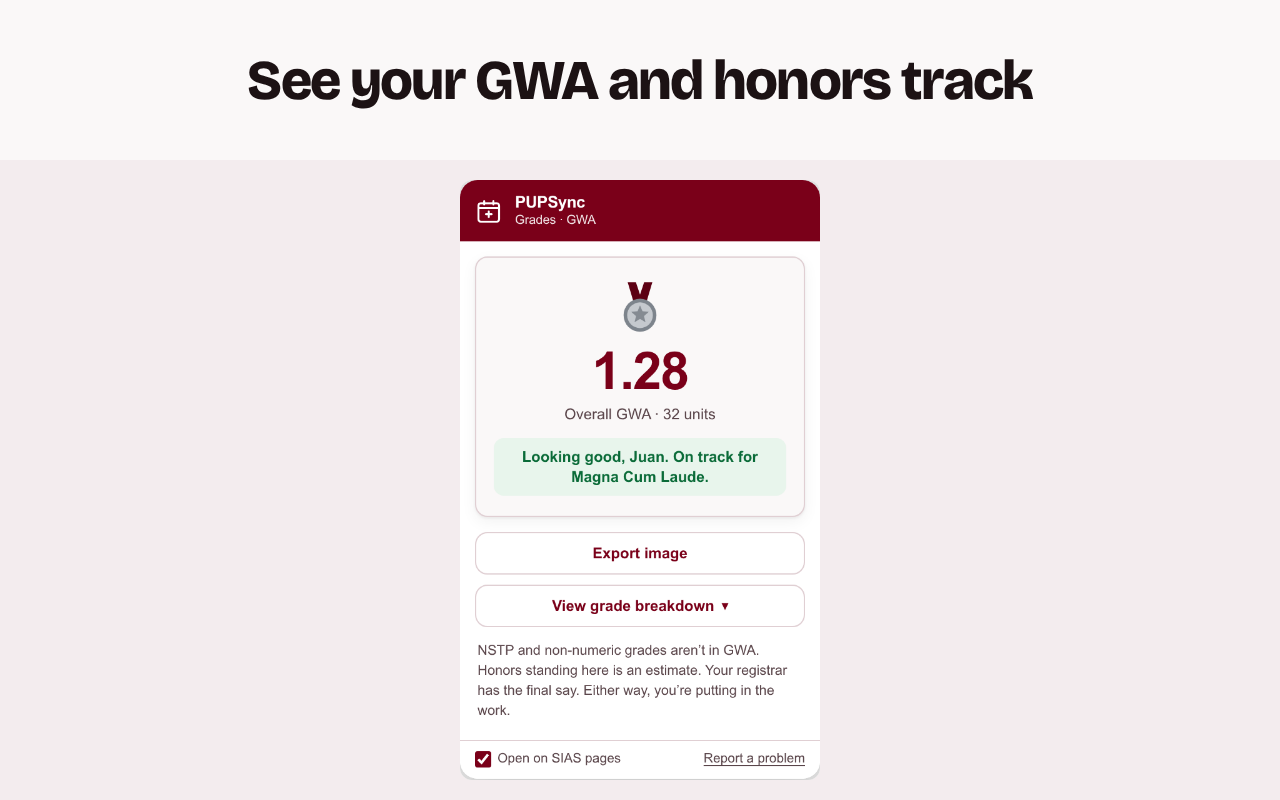
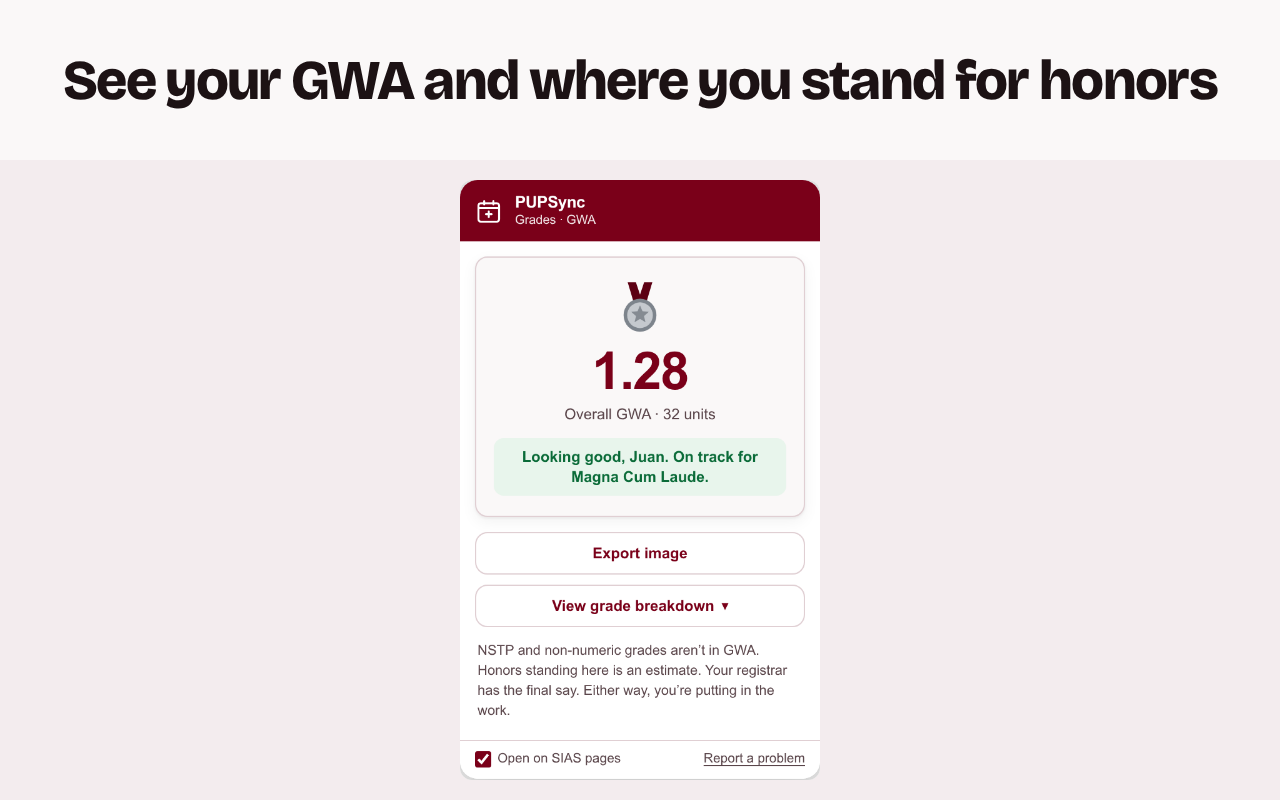
Copy fixes: hide the calendar placeholder, welcome and step 3 wording, listing bullet and shot 5 caption, meta description, no test account address

Changed region(s): [[0.0312, 0.0625, 0.9688, 0.1562]]

diff --git a/site/index.html b/site/index.html
@@ -4,7 +4,7 @@
   <meta charset="UTF-8" />
   <meta name="viewport" content="width=device-width, initial-scale=1.0" />
   <title>PUPSync: your PUPSIS schedule in Google Calendar</title>
-  <meta name="description" content="PUPSync is a free Chrome extension for PUP students. It reads your SIAS schedule and adds every class to Google Calendar." />
+  <meta name="description" content="PUPSync is a free Chrome extension for PUP students. It reads your PUPSIS (PUP SIS) schedule and adds every class to Google Calendar." />
   <meta name="theme-color" content="#7a0019" />
   <link rel="canonical" href="https://pupsync.niched.tech/" />
   <meta property="og:type" content="website" />
@@ -83,19 +83,18 @@
       <div class="wrap">
         <h2 id="ba-title">From the SIAS table to your calendar</h2>
         <p class="band-lede">The same week for Juan Dela Cruz, BSIT 2-9N: what SIAS shows you, and what lands in Google Calendar.</p>
-        <div class="ba-grid">
+        <div class="ba-grid ba-single">
           <figure class="shot">
             <img src="assets/product/sias-table.png" width="1768" height="1260" alt="A SIAS schedule table listing eight subjects with codes, days, times and sections" loading="lazy" />
-            <figcaption>Your SIAS schedule page</figcaption>
           </figure>
-          <figure class="shot shot-hold">
-            <!-- HOLD: replace with the real Google Calendar capture of the same fake week (week of Sep 7 to 13, 2026). See pupsync/dev/capture/README.md. Do not redraw Google's UI. -->
-            <div class="hold-box" role="img" aria-label="Placeholder for the Google Calendar capture">
-              <p>Google Calendar capture goes here</p>
-              <p class="hold-small">Week of Sep 7 to 13, 2026, same fake schedule</p>
-            </div>
-            <figcaption>The same week in Google Calendar</figcaption>
-          </figure>
+          <!--
+            HOLD: the Google Calendar side is hidden until store shot 1 exists.
+            Then add a second figure here with the real capture of the same fake
+            week (Sep 7 to 13, 2026), drop the ba-single class, and put the
+            caption pair back ("Your SIAS schedule page" / "The same week in
+            Google Calendar"). See pupsync/dev/capture/README.md. Do not redraw
+            Google's UI.
+          -->
         </div>
       </div>
     </section>
@@ -118,7 +117,7 @@
           <li>
             <figure class="shot"><img src="assets/product/popup-success-crop.png" width="1136" height="264" alt="PUPSync after an import: Your classes are in Google Calendar, 12 added" loading="lazy" /></figure>
             <h3>Import</h3>
-            <p>Sign in with Google once. Every class repeats weekly until the end of the sem.</p>
+            <p>Click Import and sign in with Google. Every class repeats weekly until the end of the sem.</p>
           </li>
         </ol>
       </div>

diff --git a/pupsync/welcome/welcome.html b/pupsync/welcome/welcome.html
@@ -19,7 +19,7 @@
     <ol class="steps">
       <li>
         <h2>Open your schedule on PUP SIS</h2>
-        <p>Sign in to SIAS and go to the Schedule page. PUPSync opens on its own the first time.</p>
+        <p>Sign in to SIAS, go to the Schedule page, and click the PUPSync icon in your toolbar.</p>
       </li>
       <li>
         <h2>Check and color your classes</h2>

diff --git a/site/styles.css b/site/styles.css
@@ -280,6 +280,12 @@ p {
   padding: 16px;
 }
 
+/* Only the SIAS side until the Google Calendar capture exists */
+.ba-single {
+  grid-template-columns: minmax(0, 1fr);
+  max-width: 48rem;
+}
+
 .hold-box {
   aspect-ratio: 1768 / 1260;
   display: flex;

diff --git a/pupsync/dev/capture/README.md b/pupsync/dev/capture/README.md
@@ -2,7 +2,7 @@
 
 These shots must show the real Google Calendar with the fake schedule imported by the real extension. Never redraw Google's UI.
 
-Use a throwaway Google account, never a personal one. Troy picked nhere115@gmail.com for this.
+Use a test Google account, never a personal one.
 
 Run it on a machine with a screen (the browser opens headed so you can sign in).
 
@@ -23,7 +23,7 @@ Check without signing in: `node dev/capture/launch.mjs --check`.
 
 ## 2. Import
 
-Click the PUPSync toolbar icon on the fake schedule tab, then Import to Calendar, and sign in with the throwaway account.
+Click the PUPSync toolbar icon on the fake schedule tab, then Import to Calendar, and sign in with the test Google account.
 
 ## 3. Capture (1280x800 store frame, product area below the 160px caption band)
 
@@ -42,4 +42,4 @@ Save the raw captures (no caption band) to `store/screenshots/_raw/`:
 
 Then run `node ../store/tools/render-assets.mjs` from `pupsync/`. It frames any shot whose raw files exist and leaves the others on hold. Crop out the account avatar and email before saving.
 
-When done, use Remove PUPSync classes to clean the throwaway calendar.
+When done, use Remove PUPSync classes to clean up the test account's calendar.

diff --git a/store/screenshots/HOLD.md b/store/screenshots/HOLD.md
@@ -9,7 +9,7 @@ except the three on hold.
 | 2 | `02-check-and-color.png` | Check and color every class before you import | Ready |
 | 3 | `03-holidays.png` | Holidays and exam days skipped for you | HOLD: needs a real Google Calendar capture |
 | 4 | `04-resync.png` | Schedule changed? Import again, no duplicates | HOLD: needs a real Google Calendar capture |
-| 5 | `05-gwa.png` | See your GWA and honors track | Ready |
+| 5 | `05-gwa.png` | See your GWA and where you stand for honors | Ready |
 
 Raw captures go in `_raw/` and `store/tools/render-assets.mjs` frames them. Shots 1, 3 and 4 have to show the real Google Calendar with the fake Juan Dela
 Cruz schedule imported. Do not redraw Google's UI. Capture steps are in
